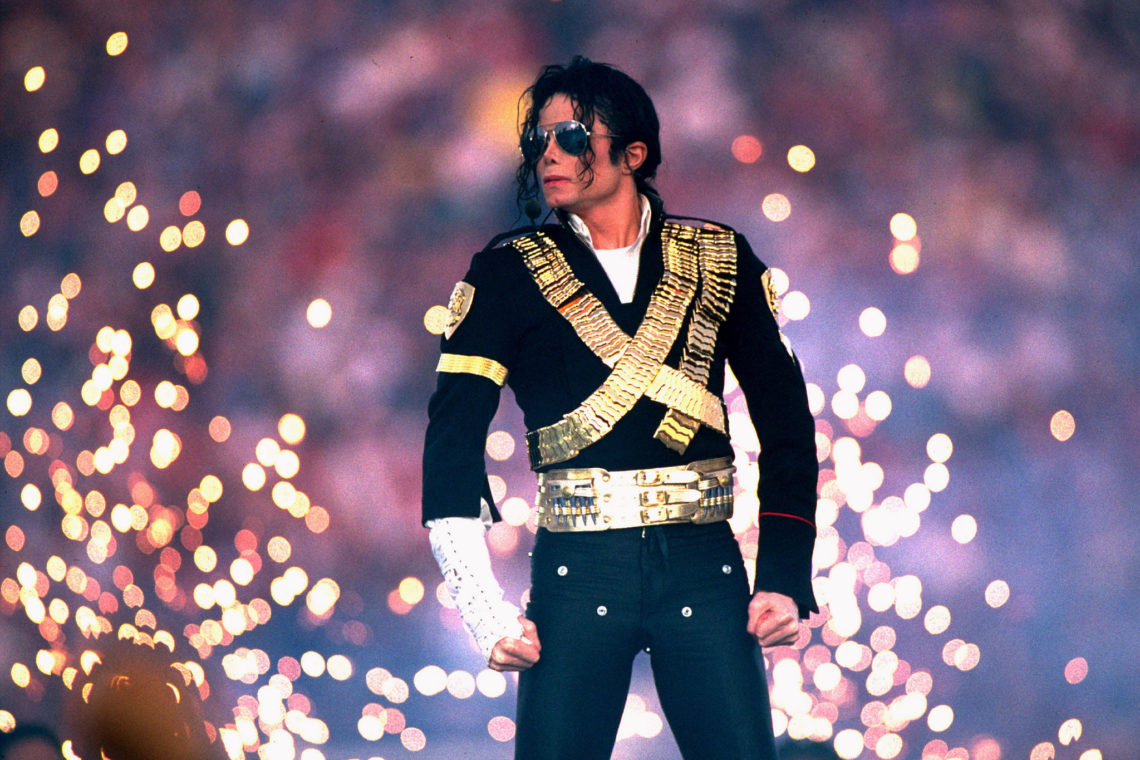
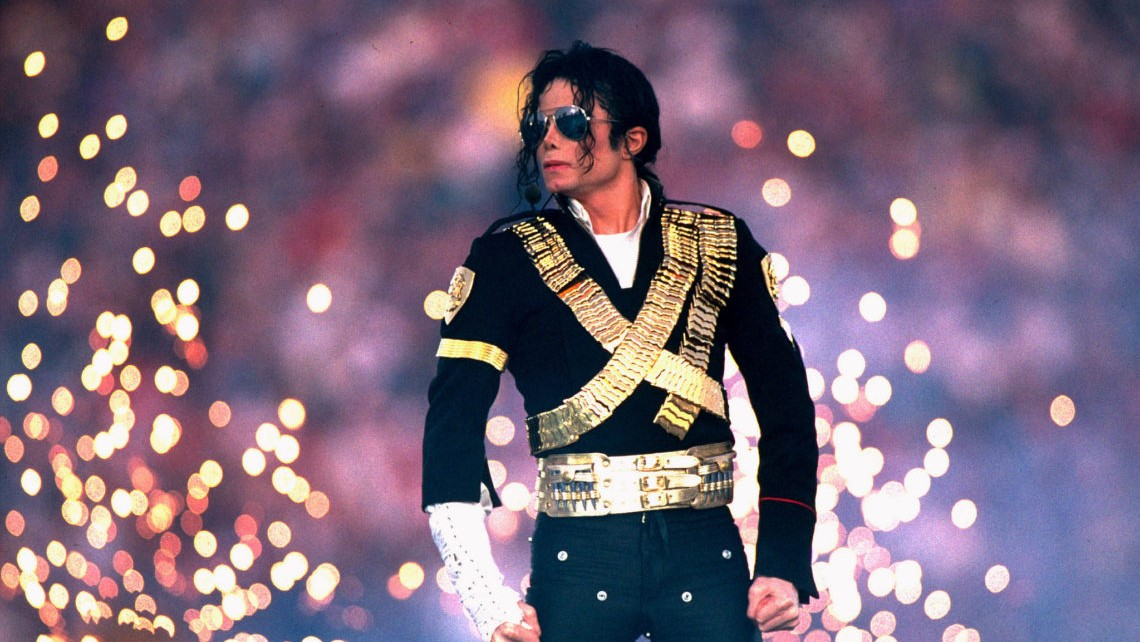
resize pictures

diff --git a/frontend/src/containers/Favorites.js b/frontend/src/containers/Favorites.js
@@ -1,0 +1,130 @@
+import React, { Component } from 'react'
+import { Query,Subscription } from 'react-apollo'
+import {
+  Container,
+  Row,
+  Col,
+} from 'reactstrap'
+
+import {
+  ME_QUERY,
+  POSTS_SUBSCRIPTION
+} from '../lib/graphql'
+
+import Post from '../components/Post'
+
+let unsubscribe = null
+
+class SubPage extends Component {
+  state = {
+    formTitle: '',
+    formBody: '',
+    dropdownOpen: false,
+    dropdownAuthor: '',
+    authorList: []
+  }
+
+  setUsers = (users) => {
+    this.setState({
+      authorList: users.map(user => ({
+        id: user.id,
+        name: user.name,
+      }))
+    });
+  }
+
+  nameToId = (name) => {
+    const targetAuthor = this.state.authorList.find(author => {
+      return author.name === name;
+    });
+
+    return targetAuthor.id;
+  }
+
+  handleFormSubmit = e => {
+    e.preventDefault()
+
+    const { formTitle, formBody, dropdownAuthor } = this.state
+
+    if (!formTitle || !formBody || !dropdownAuthor) return
+
+    this.createPost({
+      variables: {
+        title: formTitle,
+        body: formBody,
+        published: true,
+        authorId: this.nameToId(dropdownAuthor),
+      }
+    })
+
+    this.setState({
+      formTitle: '',
+      formBody: ''
+    })
+  }
+
+  handleDropdownToggle = () => {
+    this.setState({
+      dropdownOpen: !this.state.dropdownOpen
+    });
+  }
+
+  handleDropdownSelect = (authorName) => {
+    this.setState({
+      dropdownAuthor: authorName,
+      dropdownOpen: false,
+    });
+  }
+
+  render() {
+    return (
+      <Container  >
+        <Row>
+          <Col xs="6">
+          <Query query={ME_QUERY}>
+                    {({ loading, error, data, subscribeToMore }) => {
+                        if (loading) return <p>Loading...</p>;
+                        if (error) return <p>Error :(((</p>;
+
+                        const me = data.me;
+                        console.log(data)
+                        const posts = me.posts.map((post,id)=>(
+                            <Post {...post} key={id} />
+                        ))
+                        if (!unsubscribe)
+                        unsubscribe = subscribeToMore({
+                          document: POSTS_SUBSCRIPTION,
+                          updateQuery: (prev, { subscriptionData }) => {
+                            if (!subscriptionData.data) return prev
+                            const newPost = subscriptionData.data.post.data
+      
+                            return {
+                              ...prev,
+                              posts: [newPost, ...prev.posts]
+                            }
+                          }
+                        })
+                      return (
+                        <React.Fragment>
+                        <h6>Posts by {me.username}</h6>
+                        <ul className="list-group list-group-flush" style={{ width: "100%" }}>
+                        {posts}
+                      </ul>) 
+                        </React.Fragment>
+                      
+                      // return <ListGroup>{posts}</ListGroup>
+                      )
+                    }}
+                </Query>
+            <Subscription
+            subscription={POSTS_SUBSCRIPTION}
+            onSubscriptionData={({ subscriptionData }) => this.updateLikeNum(subscriptionData.data.like)}>
+          </Subscription>
+          </Col>
+        </Row>
+      </Container>
+    )
+  }
+}
+
+export default SubPage

diff --git a/frontend/src/components/front-page.js b/frontend/src/components/front-page.js
@@ -1,5 +1,5 @@
 import React, { Component } from 'react';
-
+import ResizeImage from 'react-resize-image'
 import { BrowserRouter as Router} from "react-router-dom";
 import {
   Carousel,
@@ -112,7 +112,7 @@ class FrontPage extends Component {
           onExited={this.onExited}
           key={item.src}
         >
-          <img src={item.src} alt={item.altText} href={"/"+item.caption} style={{ width:"100%"}}/>
+      <img src={item.src} alt={item.altText} href={"/"+item.caption} style={{ width:"100%",height:"100%"}}/>
           <CarouselCaption  captionText={caption} captionHeader={caption} ></CarouselCaption>
         </CarouselItem>
  
